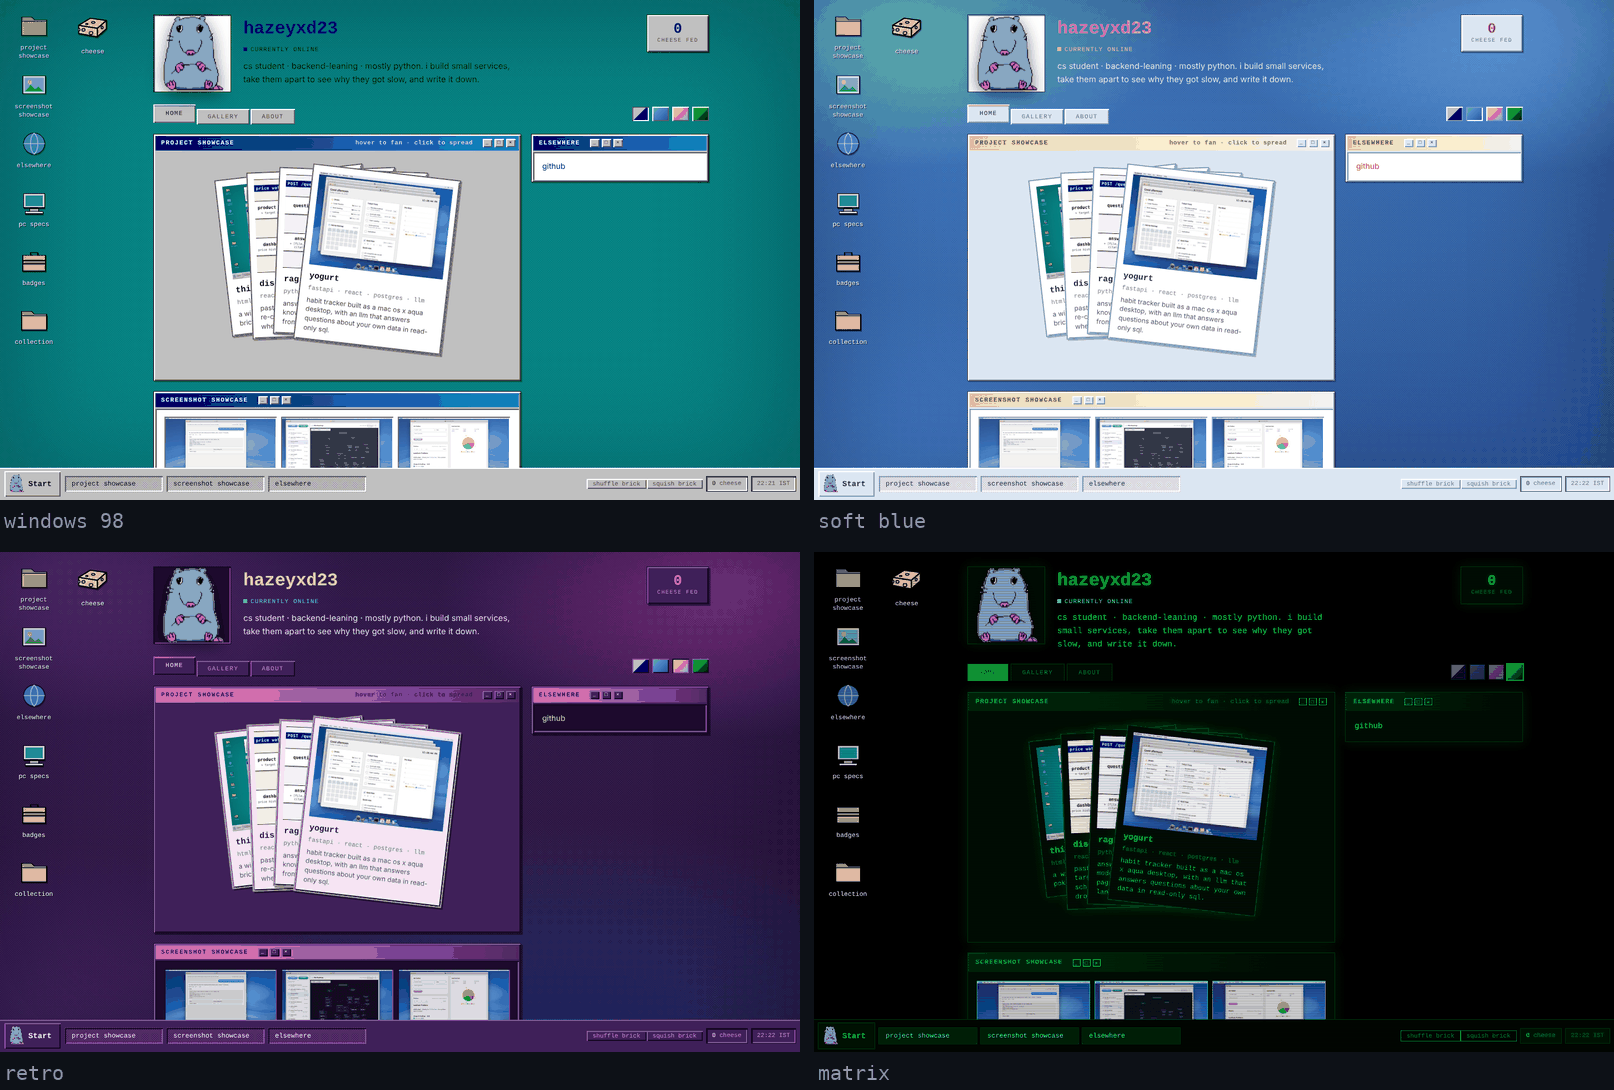
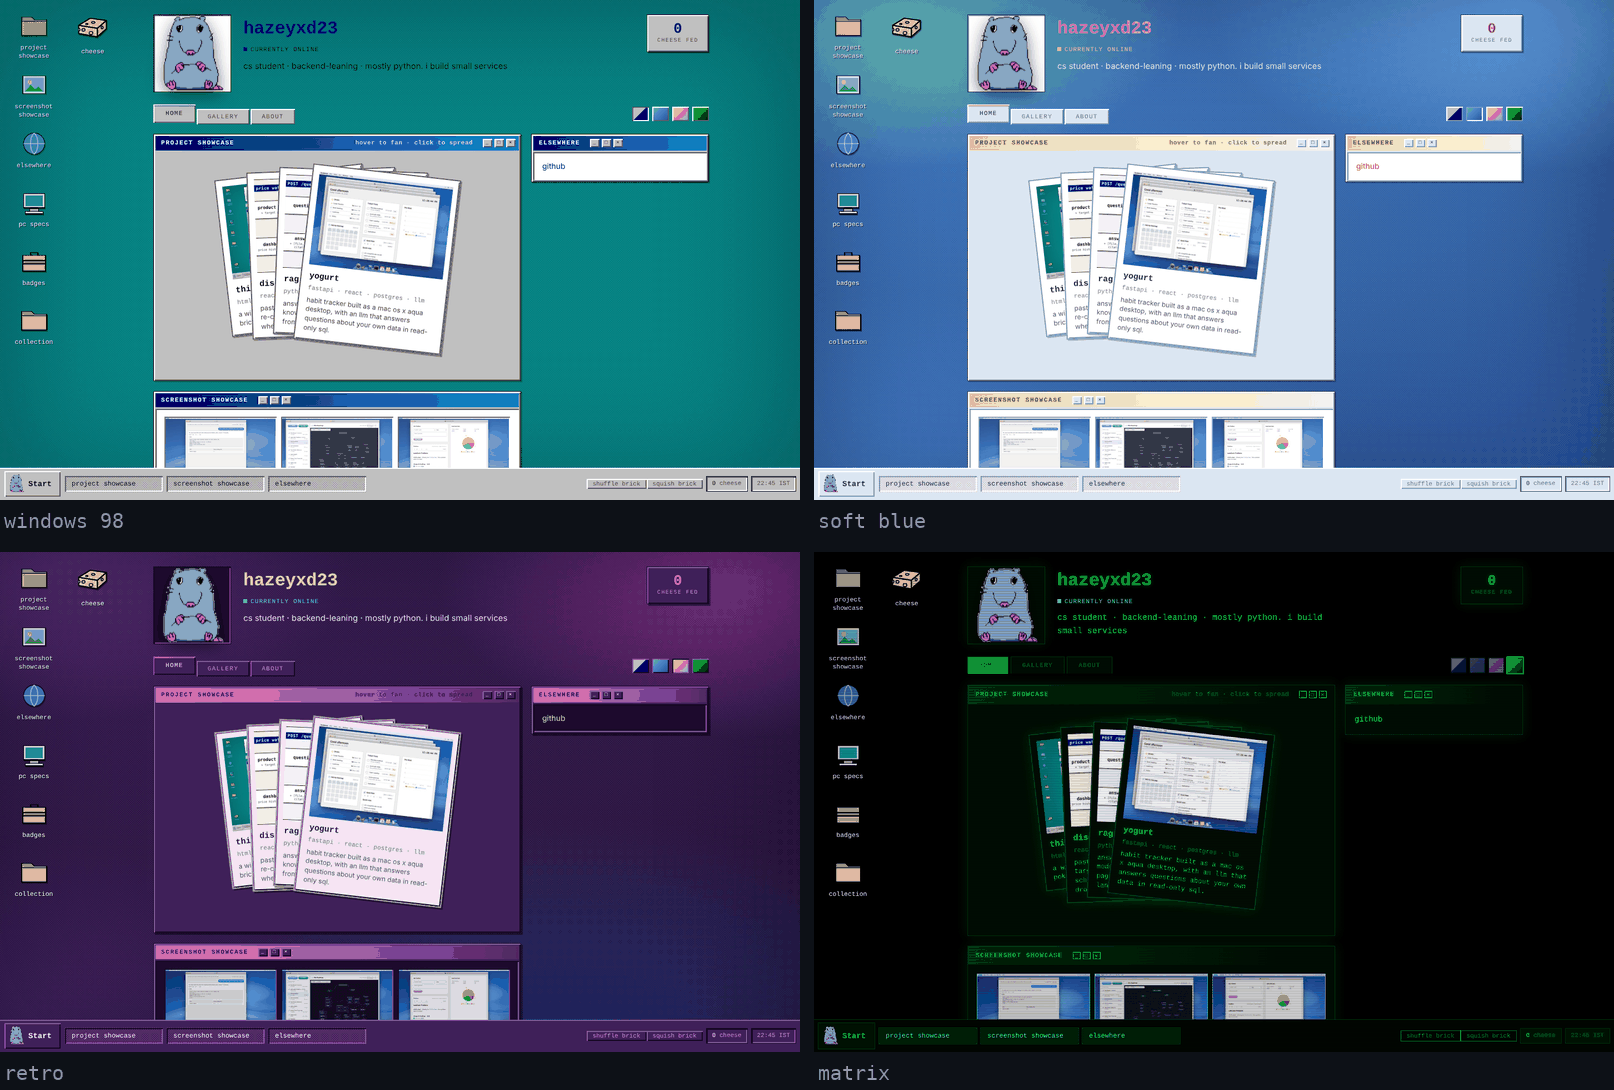
shorter tagline, add linkedin

diff --git a/js/data.js b/js/data.js
@@ -8,7 +8,7 @@ window.DATA = {
   profile: {
     handle: "hazeyxd23",
     status: "currently online",
-    blurb: "cs student · backend-leaning · mostly python. i build small services, take them apart to see why they got slow, and write it down.",
+    blurb: "cs student · backend-leaning · mostly python. i build small services",
     // longer version, shown on the About tab
     bio: `cs student. i build backends, mostly in python with fastapi, and i'm getting
           into ai/ml: retrieval, local models, and getting llms to answer from real data
@@ -120,6 +120,7 @@ window.DATA = {
 
   /* ---- link tree ---- */
   links: [
-    { name: "github",  url: "https://github.com/hazeyxd23" }
+    { name: "github",   url: "https://github.com/hazeyxd23" },
+    { name: "linkedin", url: "https://www.linkedin.com/in/bhavya-singh-baghel" }
   ]
 };
